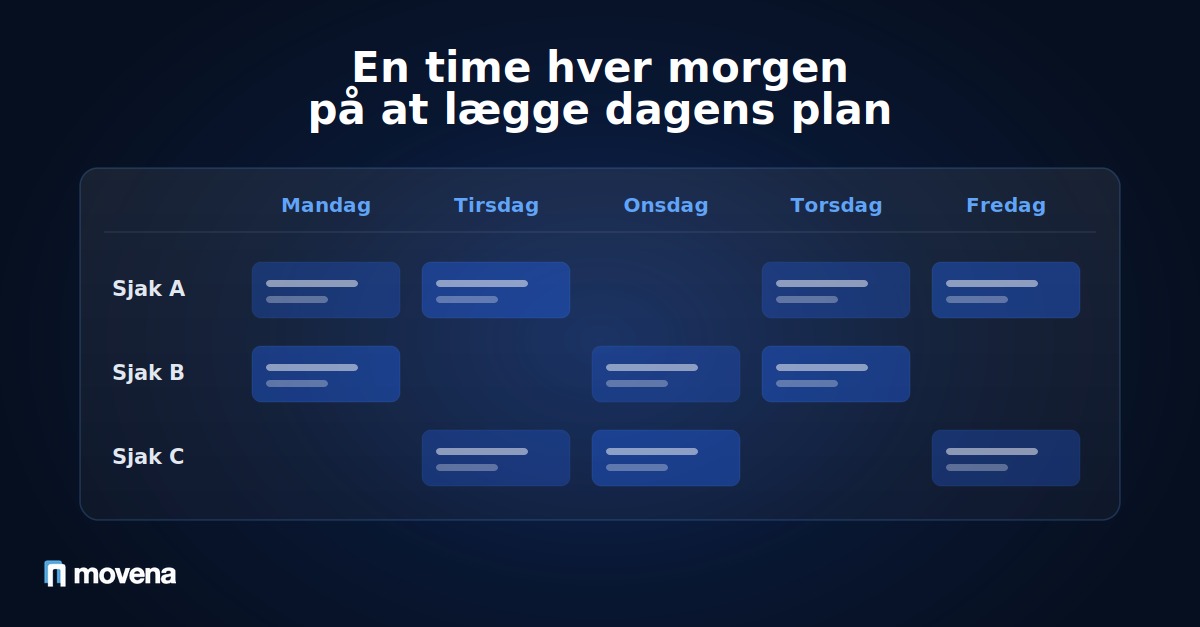
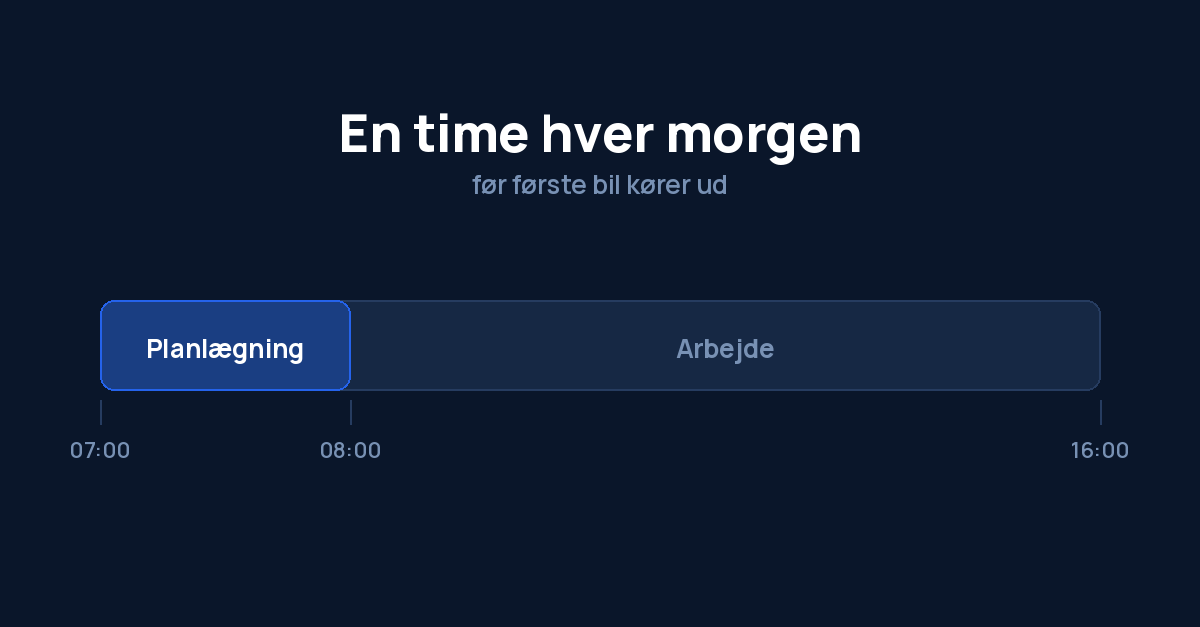
Replace Danish job-planning cover image and fix alt text
The new cover is a timeline showing the planning hour against the working
day, in the 1200x627 every other blog cover uses. og:image:width and
height are hardcoded to 1200x627 for all posts, so an off-ratio file would
have declared dimensions it did not have.

imageAlt described the previous cover, a week grid with crews on a
schedule board. It now describes what the image actually shows, which
matters because the same string feeds both the img tag and og:image:alt.

Claude-Session: https://claude.ai/code/session_017MCs2Khp43Mp98XwXzXNP6

diff --git a/content/blog/moving-company-job-planning.da.md b/content/blog/moving-company-job-planning.da.md
@@ -6,7 +6,7 @@ excerpt: "De fleste flyttefirmaer taber en time hver morgen på at finde ud af, 
 metaTitle: "Planlægning i flyttefirma: få timen tilbage"
 metaDescription: "De fleste flyttefirmaer taber en time hver morgen på at planlægge dagen. Se hvorfor det er så svært, og hvordan systemet kan klare det meste for jer."
 image: "/blog/moving-company-job-planning-da.png"
-imageAlt: "Flyttefolk planlægger dagens job på en tavle med vagtplan"
+imageAlt: "Tidslinje der viser en time til planlægning hver morgen, før arbejdsdagen begynder"
 category: "Guide"
 tags: ["planlægning flyttefirma", "disponering flyttefirma", "vagtplan flyttefirma", "drift af flyttefirma", "software til flyttefirmaer"]
 draft: false
